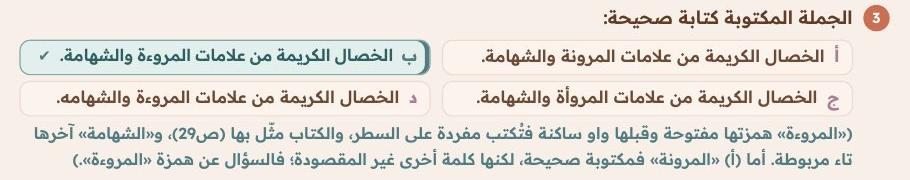
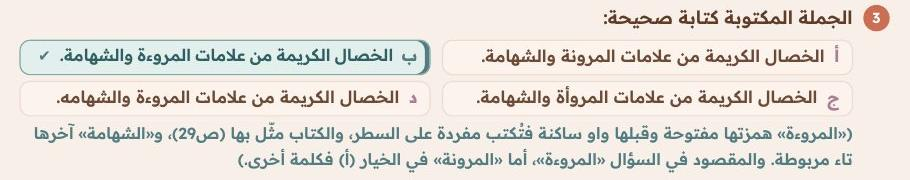
تسريبات الميد: توضيح سؤال المروءة يبقى (قرار المستخدم)
Claude-Session: https://claude.ai/code/session_0199iv8TefwxmDvY3mPX645Y

Changed region(s): [[0.0615, 0.8333, 0.8615, 0.9722]]

diff --git a/store/arab100/leaks/mid-leaks.md b/store/arab100/leaks/mid-leaks.md
@@ -14,7 +14,7 @@
 ### السؤال الأول — ظلّل دائرة الإجابة الصحيحة
 1. الجملة المكتوبة كتابة صحيحة: أ) إنطلقت دورة تنمية المهارات للطلاب المتميزين. ب) انطلقت دورة تنميه المهارات للطلاب المتميزين. ج) انطلقت دوره تنمية المهارات للطلاب المتميزين. د) انطلقت دورة تنمية المهارات للطلاب المتميزين. ✔ د («انطلق» ماضي الفعل الخماسي فهمزته وصل (ص18)، و«دورة» و«تنمية» مفردتان مؤنثتان آخرهما تاء مربوطة (ص60).)
 2. الجملة المكتوبة كتابة صحيحة: أ) أنا أطيعُ الله ورسوله وولاة أمرنا. ب) أنا اطيعُ الله ورسوله وولاة أمرنا. ج) أنا أطيعُ الله ورسوله وولات أمرنا. د) أنا أطيعُ الله ورسوله وولاة امرنا. ✔ أ («أطيع» مبدوء بهمزة المضارعة فهمزته قطع (ص20)، و«أمر» اسم مبدوء بهمزة فهمزته قطع (ص19)، و«ولاة» جمع تكسير آخره تاء مربوطة مثل: قضاة، رعاة (ص60).)
-3. الجملة المكتوبة كتابة صحيحة: أ) الخصال الكريمة من علامات المرونة والشهامة. ب) الخصال الكريمة من علامات المروءة والشهامة. ج) الخصال الكريمة من علامات المروأة والشهامة. د) الخصال الكريمة من علامات المروءة والشهامه. ✔ ب («المروءة» همزتها مفتوحة وقبلها واو ساكنة فتُكتب مفردة على السطر، والكتاب مثّل بها (ص29)، و«الشهامة» آخرها تاء مربوطة. أما (أ) «المرونة» فمكتوبة صحيحة، لكنها كلمة أخرى غير المقصودة؛ فالسؤال عن همزة «المروءة».)
+3. الجملة المكتوبة كتابة صحيحة: أ) الخصال الكريمة من علامات المرونة والشهامة. ب) الخصال الكريمة من علامات المروءة والشهامة. ج) الخصال الكريمة من علامات المروأة والشهامة. د) الخصال الكريمة من علامات المروءة والشهامه. ✔ ب («المروءة» همزتها مفتوحة وقبلها واو ساكنة فتُكتب مفردة على السطر، والكتاب مثّل بها (ص29)، و«الشهامة» آخرها تاء مربوطة. والمقصود في السؤال «المروءة»، أما «المرونة» في الخيار (أ) فكلمة أخرى.)
 4. الجملة المكتوبة كتابة صحيحة: أ) أأنت مَن اتّخذ القرار باستمرار العمل؟ ب) أأنت مَن اتّخذ القرار بإستمرار العمل. ج) آنت مَن اتّخذ القرار باستمرار العمل؟ د) أأنت مَن إتخذ القرار باستمرار العمل؟ ✔ أ (همزة الاستفهام إذا دخلت على همزة قطع تثبت الهمزتان: أأنت (ص20)، و«اتّخذ» ماضي الفعل الخماسي و«استمرار» مصدر الفعل السداسي فهمزتهما وصل (ص18)، والجملة استفهام فآخرها علامة استفهام.)
 5. الجملة المكتوبة كتابة صحيحة: أ) كل يوم نرى إنشاءات جديدة في مدينة الرياض. ب) كل يوم نرى إنشائات جديدة في مدينة الرياض. ج) كل يوم نرى إنشآت جديدة في مدينة الرياض. د) كل يوم نرى انشاءات جديده في مدينة الرياض. ✔ أ (الهمزة إذا وقعت بين ألفين تُكتب مفردة على السطر، والكتاب مثّل بـ«إنشاءات» نفسها (ص29)، وهمزة أولها قطع لأنها من مصدر الفعل الرباعي «أنشأ» (ص20).)
 6. الجملة المكتوبة كتابة صحيحة: أ) أنا آمُرُ أولادي بالإبتعاد عن السلبية والاتكالية. ب) أنا آمُرُ أولادي بالابتعاد عن السلبية والإتكالية. ج) أنا أأمُرُ أولادي بالأبتعاد عن السلبية والاتكالية. د) أنا آمُرُ أولادي بالابتعاد عن السلبية والاتكالية. ✔ د (همزة المضارعة + أمر = (أأمر) ← آمر (ص20)، و«الابتعاد» مصدر الفعل الخماسي «ابتعد»، و«الاتكالية» من مصدر الفعل الخماسي «اتّكل» فهمزتهما وصل، ودخول (أل) والباء لا يغيّر حكمها (ص18، ص21).)
